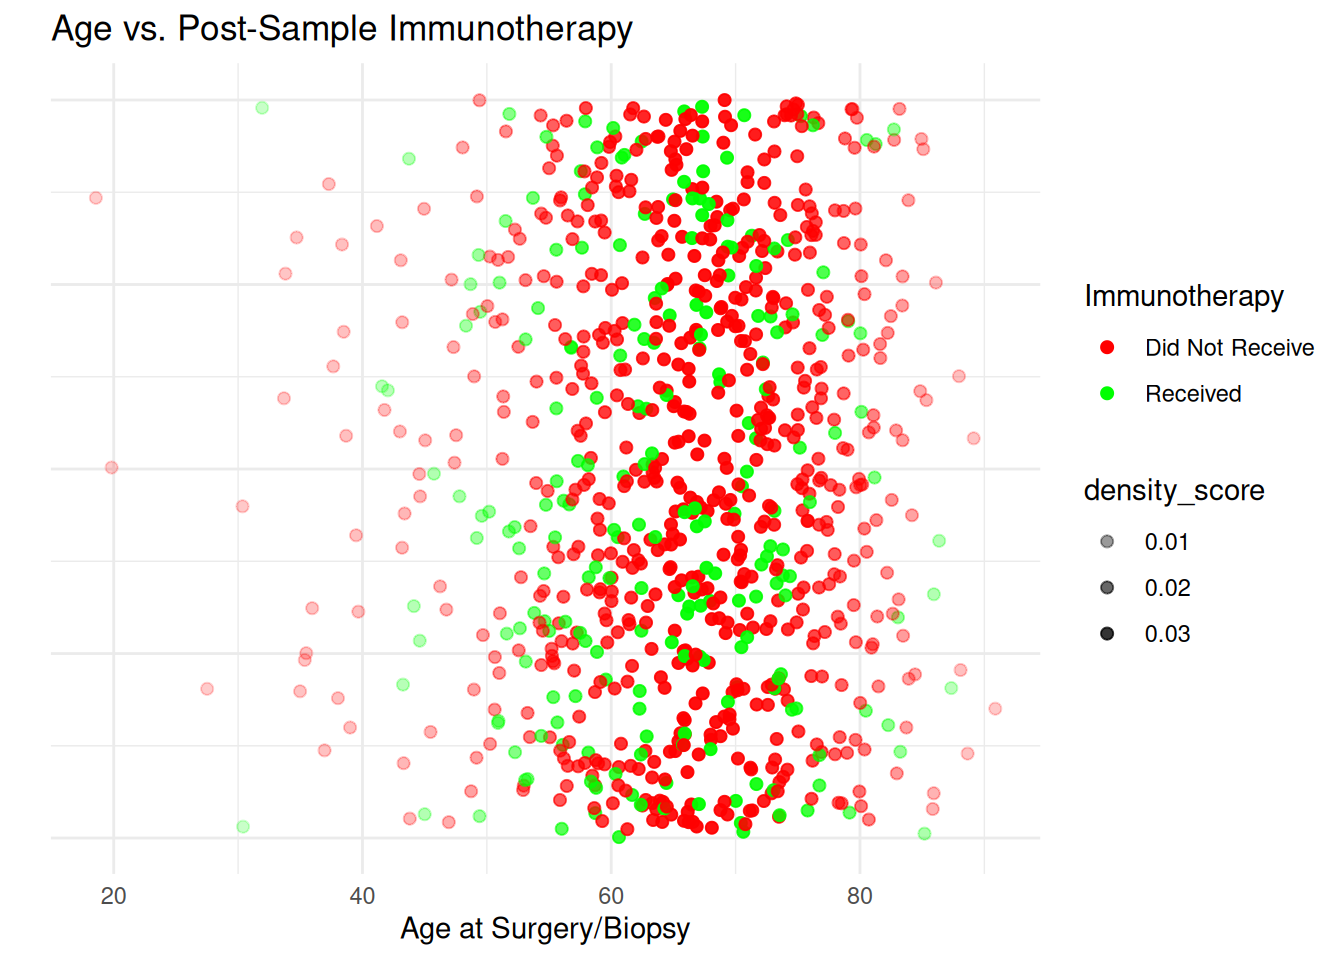
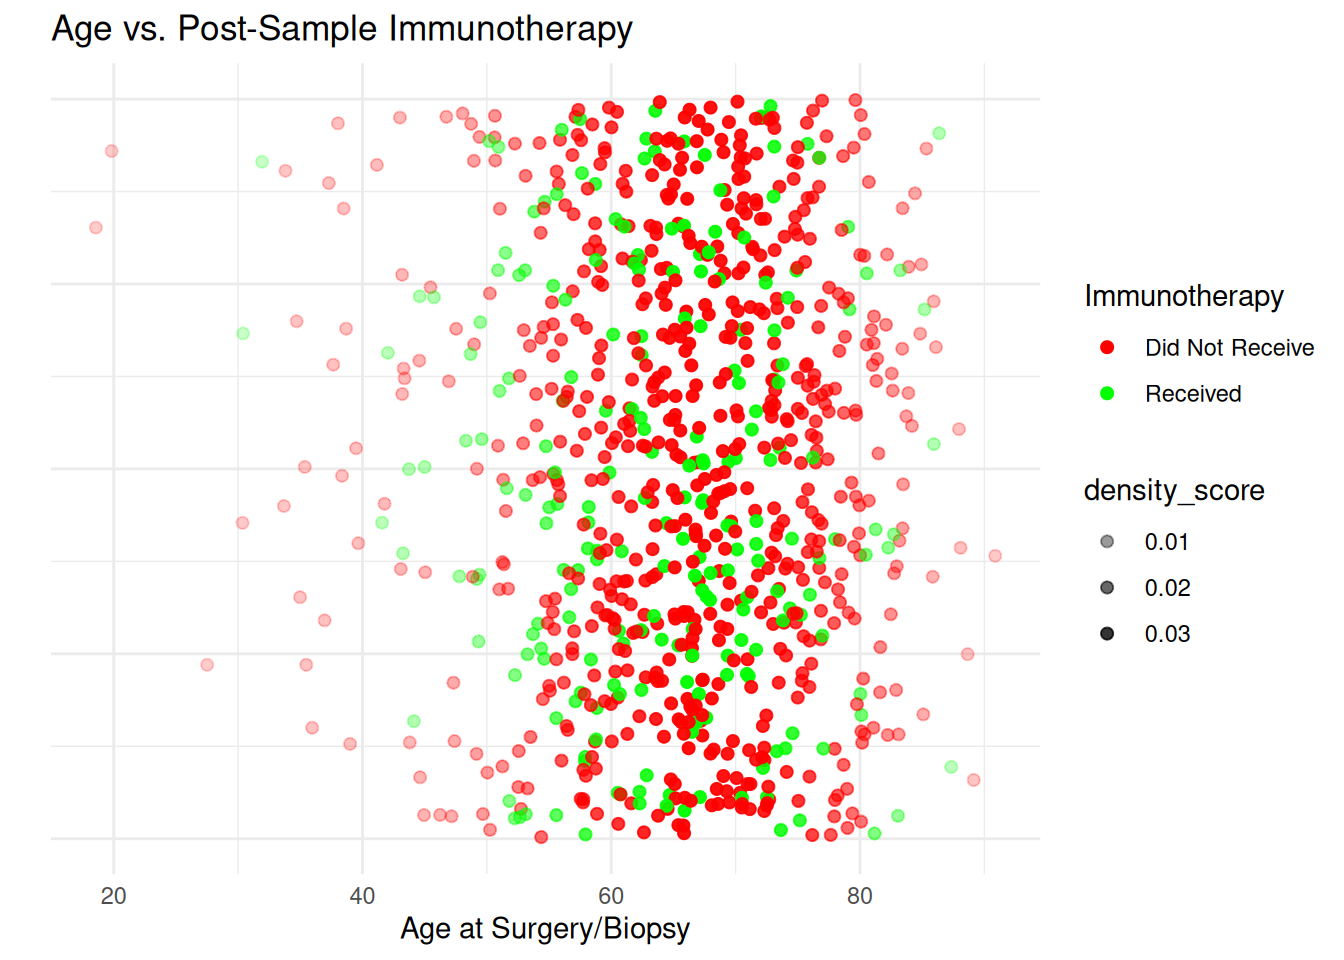
added plots tab and addded plot to homepage

diff --git a/Final Project/_site/introduction.html b/Final Project/_site/introduction.html
@@ -123,8 +123,16 @@ ul.task-list li input[type="checkbox"] {
 <div id="quarto-content" class="quarto-container page-columns page-rows-contents page-layout-article page-navbar">
 <!-- sidebar -->
 <!-- margin-sidebar -->
-    <div id="quarto-margin-sidebar" class="sidebar margin-sidebar zindex-bottom">
-        
+    <div id="quarto-margin-sidebar" class="sidebar margin-sidebar">
+        <nav id="TOC" role="doc-toc" class="toc-active">
+    <h2 id="toc-title">On this page</h2>
+   
+  <ul>
+  <li><a href="#tumor-mutational-burden-tp53-pathway-and-immunotherapy" id="toc-tumor-mutational-burden-tp53-pathway-and-immunotherapy" class="nav-link active" data-scroll-target="#tumor-mutational-burden-tp53-pathway-and-immunotherapy">Tumor Mutational Burden, TP53 Pathway, and Immunotherapy</a></li>
+  <li><a href="#race-sex-and-immunotherapy" id="toc-race-sex-and-immunotherapy" class="nav-link" data-scroll-target="#race-sex-and-immunotherapy">Race, Sex, and Immunotherapy</a></li>
+  <li><a href="#age-and-immunotherapy" id="toc-age-and-immunotherapy" class="nav-link" data-scroll-target="#age-and-immunotherapy">Age and Immunotherapy</a></li>
+  </ul>
+</nav>
     </div>
 <!-- main -->
 <main class="content" id="quarto-document-content"><header id="title-block-header" class="quarto-title-block"></header>
@@ -132,6 +140,8 @@ ul.task-list li input[type="checkbox"] {
 
 
 
+<section id="tumor-mutational-burden-tp53-pathway-and-immunotherapy" class="level2">
+<h2 class="anchored" data-anchor-id="tumor-mutational-burden-tp53-pathway-and-immunotherapy">Tumor Mutational Burden, TP53 Pathway, and Immunotherapy</h2>
 <div class="cell">
 <div class="cell-output-display">
 <div>
@@ -142,6 +152,9 @@ ul.task-list li input[type="checkbox"] {
 </div>
 </div>
 <p>According to the data, we can see that of you have a higher TMB score, you are more likely to need immunotherapy. This makes sense because since TMB meausres the changes of DNA on a tumor, it should be more likely to for a patient to need a form f immunotherapy if the DNA on their tumor is very different from the DNA in their cells. From this data, we can also see that if you have a higher TMB score, you are more likely to have a TP53 pathway, meaning your body naturally fights against a tumor. This also makes sense because the more variation in the DNA of a tumor, the more likely it should be for your body to recognize that that tumor is bad and try to fight it.</p>
+</section>
+<section id="race-sex-and-immunotherapy" class="level2">
+<h2 class="anchored" data-anchor-id="race-sex-and-immunotherapy">Race, Sex, and Immunotherapy</h2>
 <div class="cell">
 <div class="cell-output-display">
 <div>
@@ -151,9 +164,23 @@ ul.task-list li input[type="checkbox"] {
 </div>
 </div>
 </div>
-<p>According to the data from this plot, we can see that there is no big correlation between sex and immunotherapy after surgery/biopsy. I also do not see any correlation between race and immunotherapy after surgery/biopsy. However, there are some clear correlations between race, immunotherapy and sex. For example, according to the data, if you are female, younger and asian you are more likely to recieve immunotherapy.</p>
+<p>This plot suggests that white females are significantly more likely to not recieve immunotherapy after surgery/biopsy than white males. We can see this through the large difference between the two bars for white females compared to white males.</p>
+</section>
+<section id="age-and-immunotherapy" class="level2">
+<h2 class="anchored" data-anchor-id="age-and-immunotherapy">Age and Immunotherapy</h2>
+<div class="cell">
+<div class="cell-output-display">
+<div>
+<figure class="figure">
+<p><img src="introduction_files/figure-html/unnamed-chunk-3-1.png" class="img-fluid figure-img" width="672"></p>
+</figure>
+</div>
+</div>
+</div>
+<p>We can see from the graph, that there isn’t a clear correlation between age and immunotherapy after surgery/biopsy. However, we can note that most people that did not recieve immunotherapy after surgery/biopsy were between ages 60 and 80. However, the data for people who did recieve immunotherapy after surgery/biopsy is more spread out and doesn’t have a clear age range.</p>
 
 
+</section>
 
 </main> <!-- /main -->
 <script id="quarto-html-after-body" type="application/javascript">

diff --git a/Final Project/_site/model.html b/Final Project/_site/model.html
@@ -160,7 +160,6 @@ window.Quarto = {
   <li><a href="#overview" id="toc-overview" class="nav-link active" data-scroll-target="#overview">Overview</a></li>
   <li><a href="#table" id="toc-table" class="nav-link" data-scroll-target="#table">Table</a></li>
   <li><a href="#data-generating-mechanism" id="toc-data-generating-mechanism" class="nav-link" data-scroll-target="#data-generating-mechanism">Data Generating Mechanism</a></li>
-  <li><a href="#more-plots" id="toc-more-plots" class="nav-link" data-scroll-target="#more-plots">More Plots</a></li>
   </ul>
 </nav>
     </div>
@@ -208,7 +207,7 @@ window.Quarto = {
 9 `TMB (nonsynonymous)`    0.0222   0.00833     2.66  0.00777  0.00599   0.0388 </code></pre>
 </div>
 </div>
-<p>According to this table, we can interpret that if you have a TP53 pathway, you are 45.2% more likely to recieve immmunotherapy after a surgery/biopsy. This is proven by the low p value of 0.0106 and the confidence interval (0.110 to 0.804) not including the number 0.</p>
+<p>According to this table, we can interpret that if you have a TP53 pathway, you are 45.2% more likely to recieve immmunotherapy after a surgery/biopsy. This estimate is statistically significant which is proven by the low p value of 0.0106 and the confidence interval (0.110 to 0.804) not including the number 0.</p>
 </section>
 <section id="data-generating-mechanism" class="level2">
 <h2 class="anchored" data-anchor-id="data-generating-mechanism">Data Generating Mechanism</h2>
@@ -216,19 +215,6 @@ window.Quarto = {
 <p><span class="math display">\[\text{logit}(p_i) = \ln\left(\frac{p_i}{1 - p_i}\right) = \beta_0 + \beta_1(\text{Age}_i) + \beta_2(\text{Sex}_{\text{Male}, i}) + \beta_3(\text{Race}_{\text{Black}, i}) + \beta_4(\text{Race}_{\text{Other}, i}) + \beta_5(\text{Race}_{\text{Unknown}, i}) + \beta_6(\text{Race}_{\text{White}, i}) + \beta_7(\text{TP53}_{\text{Yes}, i}) + \beta_8(\text{TMB}_i)\]</span></p>
 <p>Using the estimated parameters from our model:</p>
 <p><span class="math display">\[\text{logit}(p_i) = -0.794 - 0.0169(\text{Age}_i) - 0.0523(\text{Sex}_{\text{Male}, i}) + 0.460(\text{Race}_{\text{Black}, i}) + 0.476(\text{Race}_{\text{Other}, i}) + 0.667(\text{Race}_{\text{Unknown}, i}) + 0.251(\text{Race}_{\text{White}, i}) + 0.452(\text{TP53}_{\text{Yes}, i}) + 0.0222(\text{TMB}_i)\]</span></p>
-</section>
-<section id="more-plots" class="level2">
-<h2 class="anchored" data-anchor-id="more-plots">More Plots</h2>
-<div class="cell">
-<div class="cell-output-display">
-<div>
-<figure class="figure">
-<p><img src="model_files/figure-html/unnamed-chunk-3-1.png" class="img-fluid figure-img" width="672"></p>
-</figure>
-</div>
-</div>
-</div>
-<p>We can see from the graph, that there isn’t a clear correlation between age and immunotherapy after surgery/biopsy. However, we can note that most people that did not recieve immunotherapy after surgery/biopsy were between ages 60 and 80. However, the data for people who did recieve immunotherapy after surgery/biopsy is more spread out and doesn’t have a clear age range.</p>
 
 
 </section>

diff --git a/Final Project/_site/index.html b/Final Project/_site/index.html
@@ -155,6 +155,15 @@ ul.task-list li input[type="checkbox"] {
 </header>
 
 
+<div class="cell">
+<div class="cell-output-display">
+<div>
+<figure class="figure">
+<p><img src="index_files/figure-html/unnamed-chunk-1-1.png" class="img-fluid figure-img" width="672"></p>
+</figure>
+</div>
+</div>
+</div>
 <p><strong>Lung Adenocarcinoma</strong> is the most common type of lung cancer, affecting non-smokers, women and young adults. It primarily affects glandular cells (mucus-making cells) and then spreads to outer parts of the lungs. Tragically, early stages often experience no symptoms, making this type of cancer hard to recognize. This project aims to predict if patients with Lung Adenocarcinoma need immunotherapy using variables like Age, Sex, TP53 Pathway (a natural systrem where cells stop tumors from growing), Mutation Count, TMB (nonsynonymous, predicts the success of immunotherapy), and race.</p>
 
 
